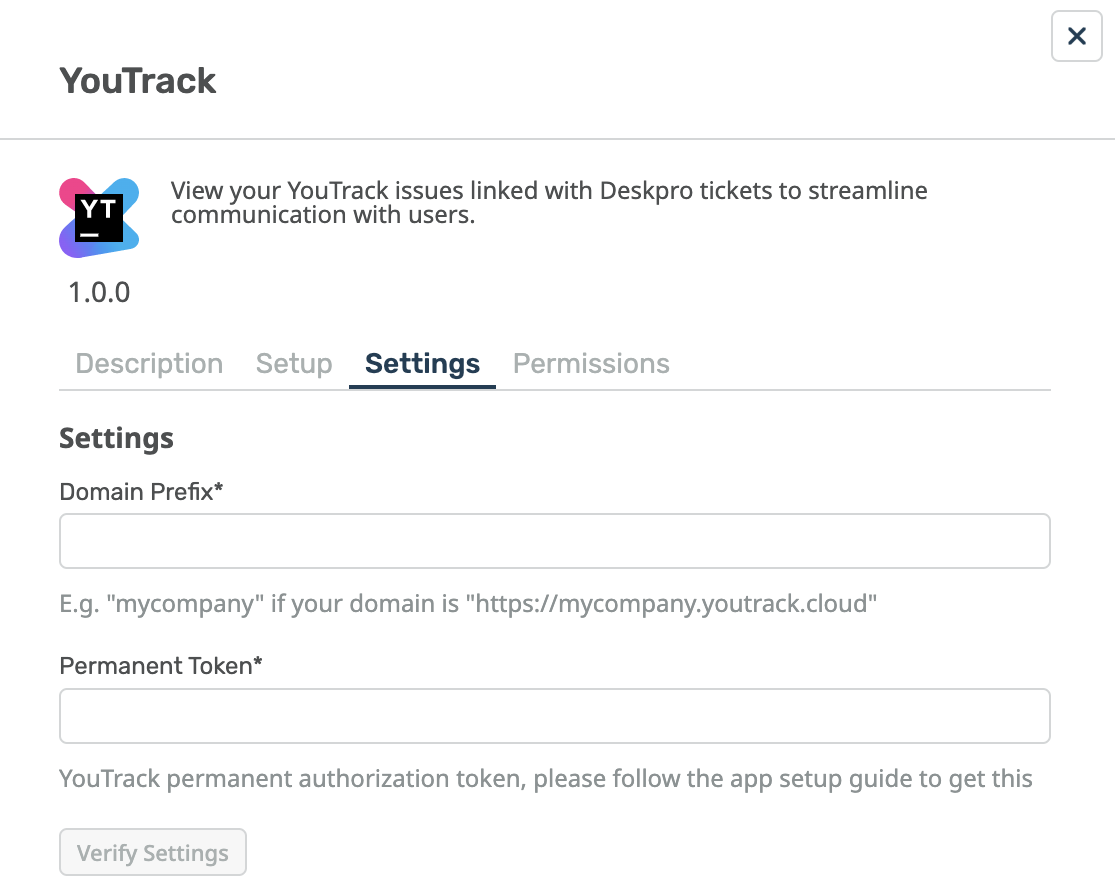
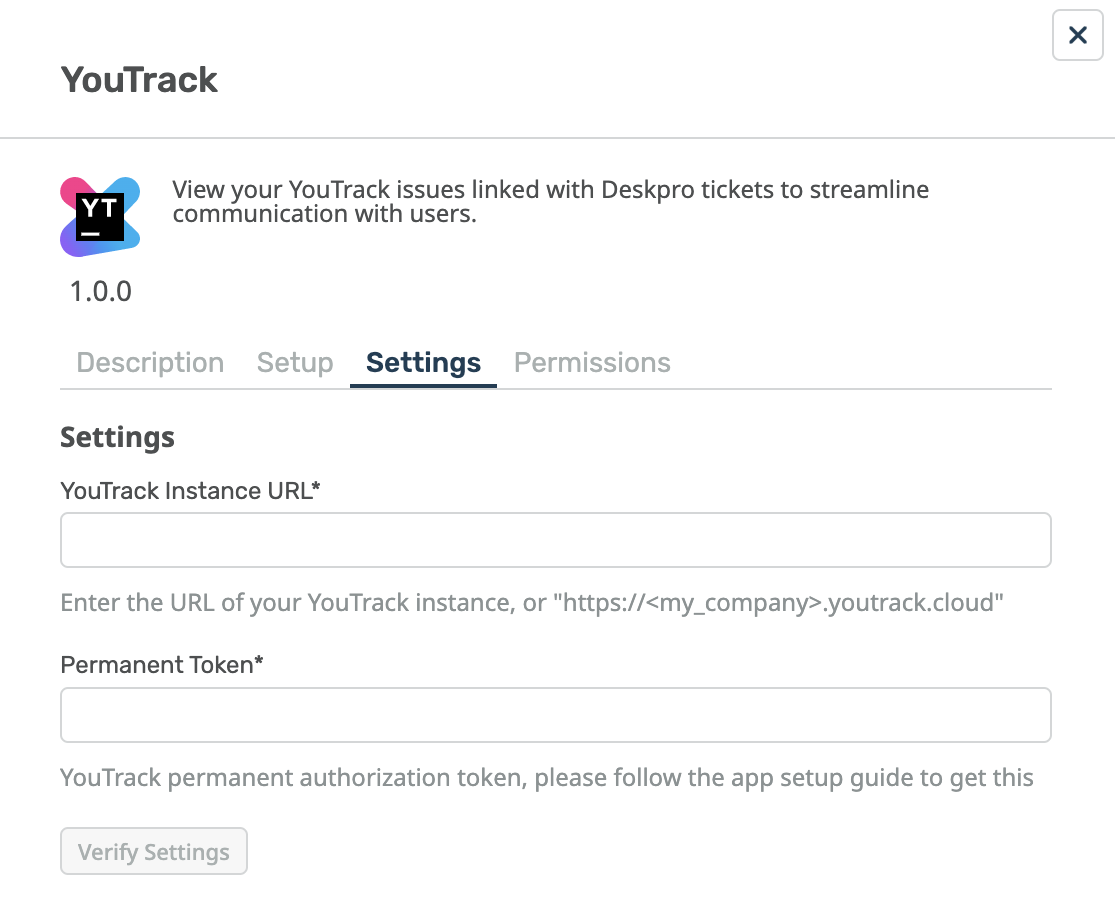
Allowed any API base URL

diff --git a/src/hooks/useExternalLink.ts b/src/hooks/useExternalLink.ts
@@ -12,31 +12,31 @@ type UseExternalLink = () => {
 
 const useExternalLink: UseExternalLink = () => {
   const { context } = useDeskproLatestAppContext() as { context: TicketContext };
-  const domain = get(context, ["settings", "domain"]);
+  const instanceUrl = get(context, ["settings", "instance_url"]);
 
   const getIssueUrl = useCallback((issueId: Issue["idReadable"]) => {
-    if (!domain || !issueId) {
+    if (!instanceUrl || !issueId) {
       return "#";
     } else {
-      return `https://${domain}.youtrack.cloud/issue/${issueId}`;
+      return `${instanceUrl}/issue/${issueId}`;
     }
-  }, [domain]);
+  }, [instanceUrl]);
 
   const getProjectUrl = useCallback((projectId: Project["id"]) => {
-    if (!domain || !projectId) {
+    if (!instanceUrl || !projectId) {
       return "#";
     } else {
-      return `https://${domain}.youtrack.cloud/projects/${projectId}`;
+      return `${instanceUrl}/projects/${projectId}`;
     }
-  }, [domain]);
+  }, [instanceUrl]);
 
   const getBaseUrl = useCallback(() => {
-    if (!domain) {
+    if (!instanceUrl) {
       return "#";
     } else {
-      return `https://${domain}.youtrack.cloud`;
+      return instanceUrl;
     }
-  }, [domain]);
+  }, [instanceUrl]);
 
   return { getIssueUrl, getProjectUrl, getBaseUrl };
 };

diff --git a/src/pages/VerifySettings/VerifySettings.tsx b/src/pages/VerifySettings/VerifySettings.tsx
@@ -33,7 +33,7 @@ const VerifySettings: FC = () => {
   const errorMessage = useMemo(() => "Failed to connect to YouTrack, settings seem to be invalid", []);
 
   const onVerifySettings = useCallback(() => {
-    if (!client || !settings?.domain || !settings?.permanent_auth_token) {
+    if (!client || !settings?.instance_url || !settings?.permanent_auth_token) {
       return;
     }
 
@@ -42,7 +42,7 @@ const VerifySettings: FC = () => {
     setCurrentUser(null);
 
     return getCurrentUserService(client, {
-      domain: settings.domain,
+      instance_url: settings.instance_url,
       permanent_auth_token: settings.permanent_auth_token,
     })
       .then(setCurrentUser)
@@ -61,7 +61,7 @@ const VerifySettings: FC = () => {
         intent="secondary"
         onClick={onVerifySettings}
         loading={isLoading}
-        disabled={!every([settings?.domain, settings?.permanent_auth_token] || isLoading)}
+        disabled={!every([settings?.instance_url, settings?.permanent_auth_token] || isLoading)}
       />
       {nbsp}
       {currentUser

diff --git a/src/services/youtrack/preInstalledRequest.ts b/src/services/youtrack/preInstalledRequest.ts
@@ -11,14 +11,14 @@ const preInstalledRequest: PreInstalledRequest = async (client, {
   method = "GET",
   queryParams = {},
 }) => {
-  const { domain, permanent_auth_token } = settings;
+  const { instance_url, permanent_auth_token } = settings;
   const dpFetch = await adminGenericProxyFetch(client);
 
   const parsedQueryParams = Array.isArray(queryParams)
     ? queryParams
     : Object.keys(queryParams).map<ParamKeyValuePair>((key) => ([key, queryParams[key]]));
 
-  const res = await dpFetch(`${replace(BASE_URL, placeholders.DOMAIN, domain)}${url}?${createSearchParams(parsedQueryParams)}`, {
+  const res = await dpFetch(`${replace(BASE_URL, placeholders.INSTANCE_URL, instance_url)}${url}?${createSearchParams(parsedQueryParams)}`, {
     method,
     headers: {
       "Accept": "application/json",

diff --git a/src/types.ts b/src/types.ts
@@ -30,7 +30,7 @@ export type RequestParams = {
 };
 
 export type Settings = {
-  domain?: string,
+  instance_url?: string,
   permanent_auth_token?: string,
 };
 
@@ -93,7 +93,7 @@ export type Request = <T>(
 export type PreInstalledRequest = <T>(
   client: IDeskproClient,
   params: RequestParams & {
-    settings: Required<Pick<Settings, "domain"|"permanent_auth_token">>,
+    settings: Required<Pick<Settings, "instance_url"|"permanent_auth_token">>,
   },
 ) => Promise<T>;
 

diff --git a/src/services/youtrack/constants.ts b/src/services/youtrack/constants.ts
@@ -1,9 +1,9 @@
 export const placeholders = {
-  DOMAIN: "__domain__",
+  INSTANCE_URL: "__instance_url__",
   PERMANENT_AUTH_TOKEN: "__permanent_auth_token__",
 };
 
-export const BASE_URL = `https://${placeholders.DOMAIN}.youtrack.cloud/api`;
+export const BASE_URL = `${placeholders.INSTANCE_URL}/api`;
 
 export const ATTACHMENT_FIELDS = ["id", "name", "extension", "url", "base64Content"];
 

diff --git a/src/services/youtrack/getCurrentUserService.ts b/src/services/youtrack/getCurrentUserService.ts
@@ -11,7 +11,7 @@ const params = {
 
 const getCurrentUserService = (
   client: IDeskproClient,
-  settings?: Required<Pick<Settings, "domain"|"permanent_auth_token">>,
+  settings?: Required<Pick<Settings, "instance_url"|"permanent_auth_token">>,
 ) => {
   return !settings
     ? baseRequest<Me>(client, params)

diff --git a/src/components/Home/__tests__/Home.test.tsx b/src/components/Home/__tests__/Home.test.tsx
@@ -58,7 +58,7 @@ jest.mock("@deskpro/app-sdk", () => ({
     const deskproAppEventsObj = {
       type: "ticket",
       settings: {
-        domain: "zpawn",
+        instance_url: "zpawn",
         permanent_auth_token: "this_is_token",
       },
       data: {

diff --git a/src/components/IssueItem/__tests__/IssueItem.test.tsx b/src/components/IssueItem/__tests__/IssueItem.test.tsx
@@ -78,7 +78,7 @@ jest.mock("@deskpro/app-sdk", () => ({
     const deskproAppEventsObj = {
       type: "ticket",
       settings: {
-        domain: "zpawn",
+        instance_url: "zpawn",
         permanent_auth_token: "this_is_token",
       },
       data: {

diff --git a/src/components/LinkIssue/__tests__/LinkIssue.test.tsx b/src/components/LinkIssue/__tests__/LinkIssue.test.tsx
@@ -60,7 +60,7 @@ jest.mock("@deskpro/app-sdk", () => ({
     const deskproAppEventsObj = {
       type: "ticket",
       settings: {
-        domain: "zpawn",
+        instance_url: "zpawn",
         permanent_auth_token: "this_is_token",
       },
       data: {

diff --git a/src/components/ViewIssue/__tests__/ViewIssue.test.tsx b/src/components/ViewIssue/__tests__/ViewIssue.test.tsx
@@ -58,7 +58,7 @@ jest.mock("@deskpro/app-sdk", () => ({
     const deskproAppEventsObj = {
       type: "ticket",
       settings: {
-        domain: "zpawn",
+        instance_url: "zpawn",
         permanent_auth_token: "this_is_token",
       },
       data: {

diff --git a/src/pages/VerifySettings/__tests__/VerifySettings.test.tsx b/src/pages/VerifySettings/__tests__/VerifySettings.test.tsx
@@ -56,7 +56,7 @@ jest.mock("@deskpro/app-sdk", () => ({
     const deskproAppEventsObj = {
       type: "ticket",
       settings: {
-        domain: "zpawn",
+        instance_url: "zpawn",
         permanent_auth_token: "this_is_token",
       },
       data: {

diff --git a/src/pages/VerifySettings/__tests__/invalidVerify.test.tsx b/src/pages/VerifySettings/__tests__/invalidVerify.test.tsx
@@ -61,7 +61,7 @@ jest.mock("@deskpro/app-sdk", () => ({
     const deskproAppEventsObj = {
       type: "ticket",
       settings: {
-        domain: "zpawn",
+        instance_url: "zpawn",
         permanent_auth_token: "this_is_token",
       },
       data: {
